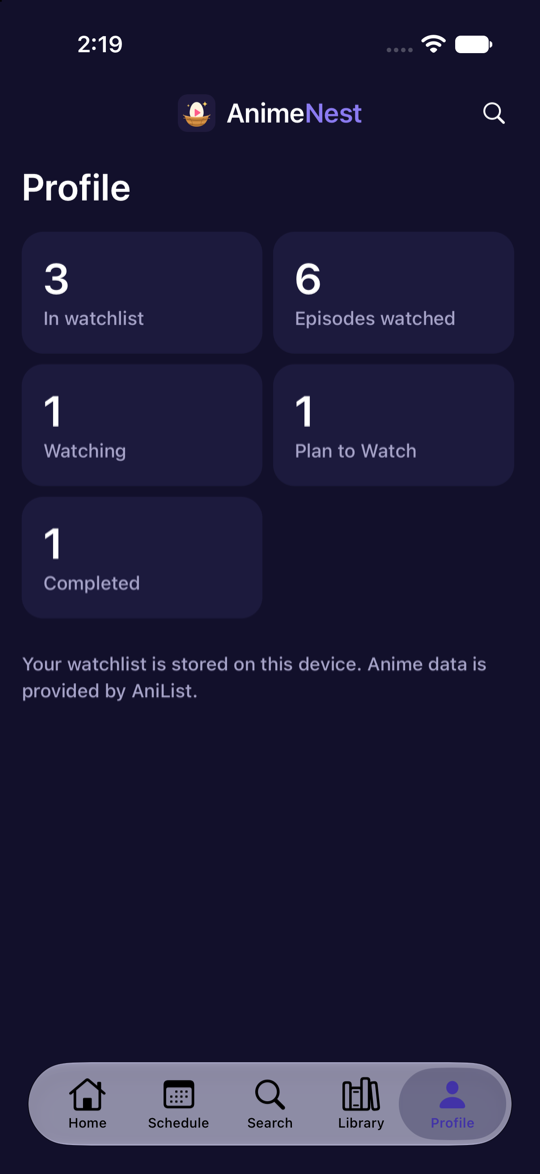
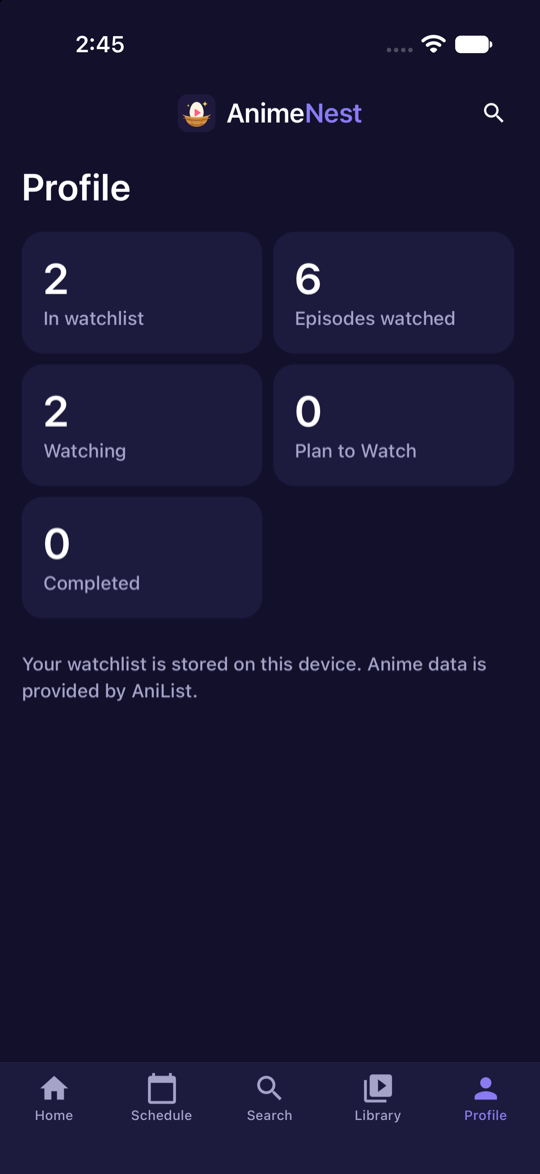
docs: update README and AGENTS.md for React Native CLI, retake screenshots

diff --git a/README.md b/README.md
@@ -2,7 +2,7 @@
 
 AnimeNest is a cross-platform mobile app (iOS, Android, web) for discovering anime. It uses the [AniList](https://anilist.co) GraphQL API to browse anime lists and view anime details, and lets you build your own watchlist.
 
-Built with [Expo](https://expo.dev) (SDK 58), React Native and [Expo Router](https://docs.expo.dev/router/introduction).
+Built with React Native (CLI) and React Navigation.
 
 ## Screenshots
 
@@ -19,99 +19,76 @@ Built with [Expo](https://expo.dev) (SDK 58), React Native and [Expo Router](htt
 - **Genre browsing:** genre chips on Home and Search, and tappable genre tags on the detail screen
 - **Search:** debounced search with All Types, TV, Movie and Top Rated filters, combinable with a genre
 - **Details:** banner, score, rank, synopsis, genres and info, with Overview, Characters (Japanese voice actors, recommendations) and Related tabs
-- **Watchlist:** add anime in one tap, set Watching / Plan to Watch / Completed, and track episode progress. Stored on the device (SQLite on native, `localStorage` on web)
+- **Watchlist:** add anime in one tap, set Watching / Plan to Watch / Completed, and track episode progress. Stored on the device (MMKV)
 - **Profile:** simple stats from your watchlist
 - Dark theme, pull to refresh, loading / error / empty states
 
 ## Tech stack
 
-- Expo SDK 58, React Native 0.88, React 19, TypeScript
-- Expo Router (file-based routing, native tabs)
+- React Native 0.88 (CLI, bare workflow), React 19, TypeScript
+- React Navigation (native stack and bottom tabs)
 - AniList GraphQL API (`https://graphql.anilist.co`), no API key needed
-- `expo-sqlite` key-value store for the watchlist, `expo-image` for images
+- `react-native-mmkv` for the on-device watchlist, `react-native-svg` for icons
+
+> The original Expo version of this app is kept on the [`expo`](../../tree/expo) branch.
 
 ## Get started
 
-1. Install dependencies
+Requirements: Node 22.11+, Xcode and CocoaPods for iOS, Android Studio (SDK + JDK 17+) for Android. See the React Native [environment setup](https://reactnative.dev/docs/set-up-your-environment).
 
-   ```bash
-   npm install
-   ```
+```bash
+npm install
+cd ios && pod install && cd ..   # iOS only
 
-2. Start the dev server
-
-   ```bash
-   npx expo start
-   ```
-
-`expo-sqlite` is a native module, so use a development build rather than Expo Go (see below).
-
-## Run on a device or simulator
-
-The native `ios/` and `android/` folders are generated (Continuous Native Generation) and gitignored. Don't edit them by hand; configure native behavior in `app.json` and config plugins.
+npm start                        # start Metro
+npm run ios                      # in another terminal: run on the iOS simulator
+npm run android                  # or run on an Android emulator / device
+```
 
 | Command | What it does |
 | --- | --- |
-| `npm run ios` | Build and run on the iOS simulator |
-| `npm run android` | Build and run on an Android emulator or device |
-| `npm run web` | Start the web version |
-| `npm run lint` | Lint the project |
-| `npx tsc --noEmit` | Typecheck |
-
-To regenerate the native projects after changing `app.json`, icons or plugins:
-
-```bash
-npx expo prebuild --clean
-```
+| `npm run lint` | ESLint (with Prettier rules) |
+| `npm run typecheck` | TypeScript check |
+| `npm test` | Jest unit tests |
+| `npm run pods` | `pod install` for iOS |
 
 ### Build an Android APK locally
 
 With the Android SDK installed (`ANDROID_HOME` set):
 
 ```bash
-npx expo prebuild --platform android
 cd android && ./gradlew assembleRelease
 # android/app/build/outputs/apk/release/app-release.apk
 ```
 
-The template signs release builds with the debug keystore, which is fine for sideloading but not for Google Play.
+Release builds are signed with the debug keystore by default, which is fine for sideloading but not for Google Play. Add your own keystore in `android/app/build.gradle` before publishing.
 
 ## Project structure
 
 ```
+App.tsx                   Root: safe area, navigation container, theme
+index.js                  App registration
 src/
-  app/                    Routes only (file-based routing)
-    _layout.tsx           Root stack and theme
-    (tabs)/               Home, Schedule, Search, Library, Profile
-    anime/[id].tsx        Anime detail screen
+  screens/                Home, Schedule, Search, Library, Profile, Anime detail
+  navigation/             Root stack, bottom tabs, route types, navigation ref
   components/
-    ui/                   Shared building blocks (button, chip, tag, states, icon...)
+    ui/                   Shared building blocks (button, chip, rating, icon...)
     screen.tsx            Safe-area page wrapper
     app-header.tsx        Brand header
-    app-tabs.tsx          Native tab bar (app-tabs.web.tsx for web)
   features/
     anime/                AniList API client and queries, types, formatters,
                           data hooks and anime components
     schedule/             Airing schedule query, day grouping, hook and row
-    watchlist/            Storage, store, hooks and watchlist components
+    watchlist/            MMKV storage, store, hooks and watchlist components
   hooks/                  Generic hooks (use-async, use-debounced-value, use-theme)
-  lib/                    Small helpers (navigation)
+  lib/navigation.ts       openAnime / openGenre helpers
   constants/theme.ts      Colors and spacing
+ios/, android/            Native projects (committed)
 docs/screenshots/         README screenshots
-assets/images/            App icon, adaptive icon, splash and favicon
+assets/images/            App icon source
 ```
 
-Keep non-route code outside `src/app/`.
-
-## Building and releasing
-
-Builds and updates are handled with [EAS](https://docs.expo.dev/eas/):
-
-```bash
-npx eas-cli@latest build
-npx eas-cli@latest submit
-npx eas-cli@latest update
-```
+Import with the `@/` alias (`@/` is `src/`).
 
 ## Credits
 
@@ -119,6 +96,6 @@ Anime data is provided by [AniList](https://anilist.co).
 
 ## Learn more
 
-- [Expo documentation](https://docs.expo.dev/)
-- [Expo Router](https://docs.expo.dev/router/introduction)
+- [React Native docs](https://reactnative.dev/docs/getting-started)
+- [React Navigation](https://reactnavigation.org/)
 - [AniList API docs](https://docs.anilist.co/)

diff --git a/AGENTS.md b/AGENTS.md
@@ -1,41 +1,33 @@
-This is an Expo/React Native mobile application. Prioritize mobile-first patterns, performance, and cross-platform compatibility.
-
-## Expo has changed — do not trust your training data
-
-Expo ships breaking changes every SDK release. APIs you remember are likely renamed, moved, or removed. Before writing any code that touches an Expo, EAS, or React Native API:
-
-1. Read the major version of the `expo` package in `package.json`.
-2. Fetch the matching versioned docs: `https://docs.expo.dev/versions/v<major>.0.0/`
-3. For anything else, fetch https://docs.expo.dev/llms.txt — an index of all Expo docs with corrections to common LLM misconceptions. Follow its links to the specific page you need; never answer from memory.
+This is a React Native CLI (bare workflow) mobile app, not an Expo app. Prioritize mobile-first patterns, performance, and iOS/Android compatibility. The previous Expo version lives on the `expo` branch.
 
 ## Commands
 
-Use `bunx` instead of `npx` if the project uses bun (`bun.lock` present).
-
 ```bash
-npx expo install <package>  # ALWAYS use instead of npm/yarn/pnpm/bun add — resolves SDK-compatible versions
-npx expo start              # start the dev server
-npx expo lint               # lint
-npx tsc --noEmit            # typecheck
-npx expo-doctor             # diagnose dependency and config issues
-npx expo install --fix      # fix incompatible package versions
+npm install                 # install dependencies
+cd ios && pod install       # after adding/removing native dependencies (or: npm run pods)
+npx react-native start      # start Metro
+npm run ios                 # build and run on the iOS simulator
+npm run android             # build and run on an Android emulator or device
+npm run lint                # eslint (includes prettier rules)
+npm run typecheck           # tsc --noEmit
+npm test                    # jest
 ```
 
-Run lint and typecheck before declaring any task done.
+Run lint, typecheck and tests before declaring any task done.
 
-## Navigation & Routing
+## Structure
 
-- Use **Expo Router** for all navigation. Routes live in `src/app/` — every file there is a screen, `_layout.tsx` files define navigators. Keep non-route code (components, hooks, utils) outside `src/app/`.
-- Import `Link`, `router`, and `useLocalSearchParams` from `expo-router`.
-- Docs: https://docs.expo.dev/router/introduction.md
-
-## Building with EAS
-
-Use EAS to build, sign, and submit the app in the cloud (`eas build`, `eas submit`) and to ship over-the-air updates (`eas update`) — no local Xcode or Android Studio required. Run EAS CLI as `bunx eas-cli <command>` in Bun projects, or `npx eas-cli@latest <command>` otherwise; substitute that for bare `eas` in docs examples.
-Docs: https://docs.expo.dev/eas/index.md
+- `src/screens/` — one file per screen. Keep them thin; logic lives in hooks.
+- `src/navigation/` — React Navigation (native stack + bottom tabs) and typed route params (`types.ts`).
+- `src/features/<feature>/` — `api`, `hooks`, `components` and helpers for a feature (`anime`, `schedule`, `watchlist`).
+- `src/components/ui/` — shared building blocks (button, chip, rating, icon...).
+- `src/lib/navigation.ts` — `openAnime` / `openGenre`, usable outside components via the navigation ref.
+- Import with the `@/` alias (`@/` → `src/`, `@/assets` → `assets/`), configured in `babel.config.js` and `tsconfig.json`.
 
 ## Rules
 
-- If `ios/` and `android/` directories do not exist, they are generated (Continuous Native Generation). Never create or edit them by hand — configure native behavior in `app.json` and config plugins.
-- Expo Go only includes its bundled native modules. After adding a library with native code, the app needs a development build: `npx expo run:ios|android` locally, or `eas build --profile development`.
-- Prefer recommended Expo modules over third-party libraries, and check your available skills before adding dependencies. Docs: https://docs.expo.dev/versions/latest/index.md
+- `ios/` and `android/` are committed and edited directly. After changing native dependencies run `pod install` in `ios/`.
+- Native libraries need a rebuild (`npm run ios` / `npm run android`); Metro reload is not enough.
+- Icons are inline SVG paths in `src/components/ui/icon.tsx` (no icon font). Add a path there to add an icon.
+- Show scores only through `<Rating />` so unrated titles render consistently.
+- Match the Prettier config (`.prettierrc.js`); `npm run lint` enforces it.
